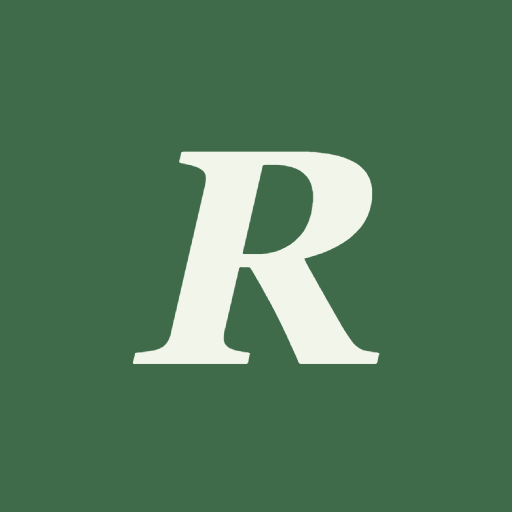
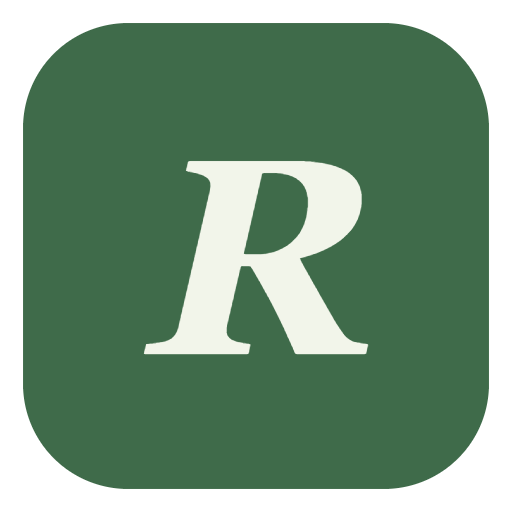
Icones d'escriptori i de pestanya
Windows i macOS pinten la icona instal.lada tal qual, sense mascara, i per
aixo hi sortia un rajol quadrat. Les icones "any" passen a ser un quadrat
arrodonit amb les cantonades transparents, que es el que aquests entorns
esperen que porti la propia imatge.

A mida de pestanya aquell marge es menjava la lletra, aixi que la icona del
navegador va a part en SVG: nitida a qualsevol mida i amb la erra mes gran
perque es llegeixi a 16 px. El PNG es queda de reserva per si l'SVG no.

No es toca res del que fa servir iOS: l'apple-touch-icon apunta al mateix
icon-180.png, que segueix sent el mateix fitxer. Les maskable d'Android
tampoc es toquen.

diff --git a/index.html b/index.html
@@ -10,7 +10,8 @@
 <meta name="theme-color" content="#F2F5EA" media="(prefers-color-scheme: light)">
 <meta name="theme-color" content="#1A2420" media="(prefers-color-scheme: dark)">
 <link rel="apple-touch-icon" href="icon-180.png">
-<link rel="icon" href="icon-192.png" type="image/png">
+<link rel="icon" href="icon.svg" type="image/svg+xml">
+<link rel="icon" href="icon-192.png" type="image/png" sizes="192x192">
 <link rel="manifest" href="manifest.json">
 <title>El Rebost</title>
 
